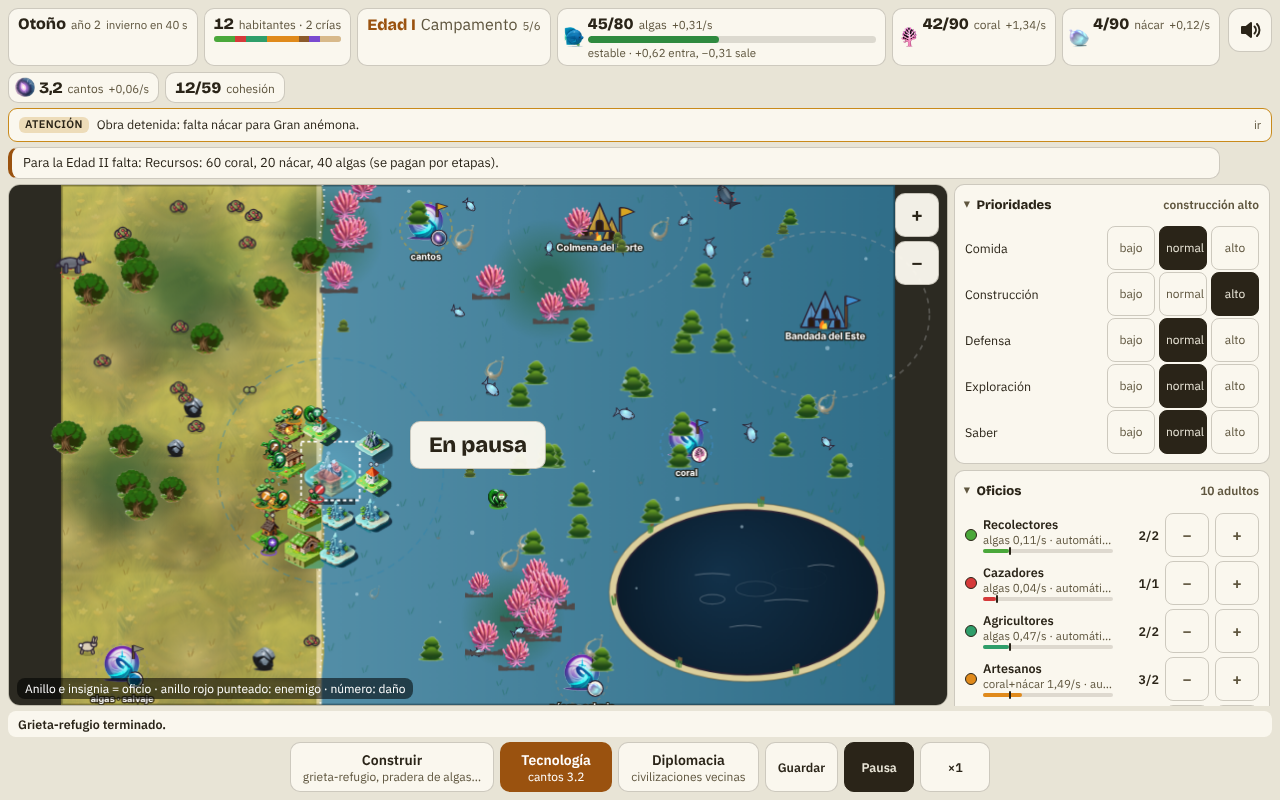
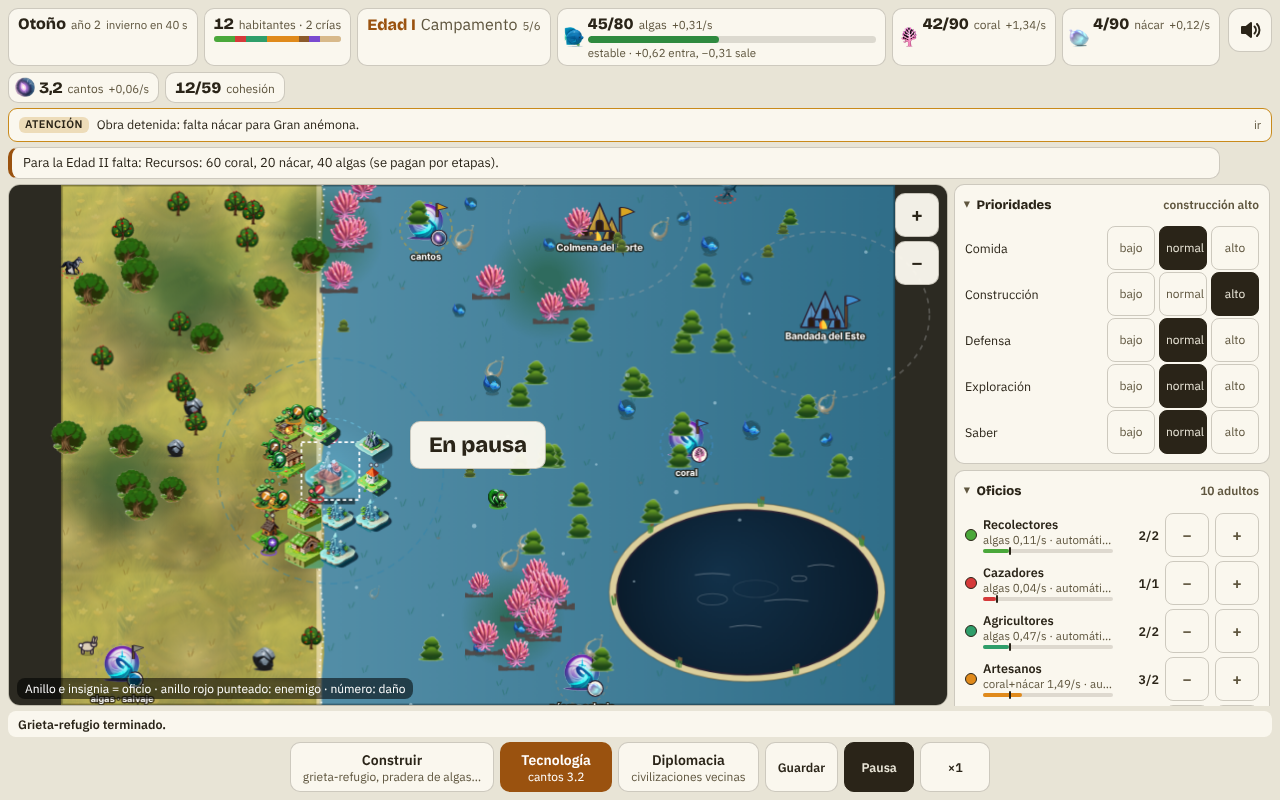
Era 3: fauna pintada (lobo, ciervo, tiburón, pez, escarabajo), suelo de insectos y arbusto terrestre; descartados conejo y barro; capturas
Claude-Session: https://claude.ai/code/session_01LxJEci8UkC2NiSyVL744eD

diff --git a/art/era3/manifest.js b/art/era3/manifest.js
@@ -1,3 +1,3 @@
 /* Generado por tools/anakin_dibujar_era3.py: dibujos de la Era 3 disponibles (motor de Anakin). */
-window.ERA3_ART = ["acu.almacen.1", "acu.almacen.2", "acu.almacen.3", "acu.corazon.1", "acu.corazon.2", "acu.corazon.3", "acu.cria.1", "acu.cria.2", "acu.cria.3", "acu.cuartel.1", "acu.cuartel.2", "acu.cuartel.3", "acu.ext1.1", "acu.ext1.2", "acu.ext1.3", "acu.ext2.1", "acu.ext2.2", "acu.ext2.3", "acu.granja.1", "acu.granja.2", "acu.granja.3", "acu.maravilla.1", "acu.muro.1", "acu.muro.2", "acu.muro.3", "acu.obra.andamio", "acu.obra.mitad", "acu.obra.plano", "acu.recurso.comida", "acu.recurso.mat1", "acu.recurso.mat2", "acu.recurso.saber", "acu.saber.1", "acu.saber.2", "acu.saber.3", "acu.terreno.arbusto", "acu.terreno.nodo", "acu.terreno.obstaculo", "acu.terreno.suelo", "acu.terreno.veta", "acu.torre.1", "acu.torre.2", "acu.torre.3", "acu.unico.1", "acu.vivienda.1", "acu.vivienda.2", "acu.vivienda.3", "ave.almacen.1", "ave.almacen.2", "ave.almacen.3", "ave.corazon.1", "ave.corazon.2", "ave.corazon.3", "ave.cria.1", "ave.cria.2", "ave.cria.3", "ave.cuartel.1", "ave.cuartel.2", "ave.cuartel.3", "ave.ext1.1", "ave.ext1.2", "ave.ext1.3", "ave.ext2.1", "ave.ext2.2", "ave.ext2.3", "ave.granja.1", "ave.granja.2", "ave.granja.3", "ave.maravilla.1", "ave.muro.1", "ave.muro.2", "ave.muro.3", "ave.obra.andamio", "ave.obra.mitad", "ave.obra.plano", "ave.recurso.comida", "ave.recurso.mat1", "ave.recurso.mat2", "ave.recurso.saber", "ave.saber.1", "ave.saber.2", "ave.saber.3", "ave.terreno.arbusto", "ave.terreno.nodo", "ave.terreno.obstaculo", "ave.terreno.suelo", "ave.torre.1", "ave.torre.2", "ave.torre.3", "ave.unico.1", "ave.vivienda.1", "ave.vivienda.2", "ave.vivienda.3", "gen.dano.escombros", "hab.acu_abisal", "hab.acu_anfibio", "hab.acu_arrecife", "hab.ave_carronera", "hab.ave_migratoria", "hab.ave_rapaz", "hab.ins_colmena", "hab.ins_enjambre", "hab.ins_parasito", "hab.lobo", "hab.ter_cazador", "hab.ter_gigante", "hab.ter_ingeniero", "ins.almacen.1", "ins.almacen.2", "ins.almacen.3", "ins.corazon.1", "ins.corazon.2", "ins.corazon.3", "ins.cria.1", "ins.cria.2", "ins.cria.3", "ins.cuartel.1", "ins.cuartel.2", "ins.cuartel.3", "ins.ext1.1", "ins.ext1.2", "ins.ext1.3", "ins.ext2.1", "ins.ext2.2", "ins.ext2.3", "ins.granja.1", "ins.granja.2", "ins.granja.3", "ins.maravilla.1", "ins.muro.1", "ins.muro.2", "ins.muro.3", "ins.obra.andamio", "ins.obra.mitad", "ins.obra.plano", "ins.recurso.comida", "ins.recurso.mat1", "ins.recurso.mat2", "ins.recurso.saber", "ins.saber.1", "ins.saber.2", "ins.saber.3", "ins.terreno.arbusto", "ins.terreno.nodo", "ins.terreno.obstaculo", "ins.terreno.veta", "ins.torre.1", "ins.torre.2", "ins.torre.3", "ins.unico.1", "ins.vivienda.1", "ins.vivienda.2", "ins.vivienda.3", "ter.almacen.1", "ter.almacen.2", "ter.almacen.3", "ter.corazon.1", "ter.corazon.2", "ter.corazon.3", "ter.cria.1", "ter.cria.2", "ter.cria.3", "ter.cuartel.1", "ter.cuartel.2", "ter.cuartel.3", "ter.ext1.1", "ter.ext1.2", "ter.ext1.3", "ter.ext2.1", "ter.ext2.2", "ter.ext2.3", "ter.granja.1", "ter.granja.2", "ter.granja.3", "ter.maravilla.1", "ter.muro.1", "ter.muro.2", "ter.muro.3", "ter.obra.andamio", "ter.obra.mitad", "ter.obra.plano", "ter.recurso.comida", "ter.recurso.mat1", "ter.recurso.mat2", "ter.recurso.saber", "ter.saber.1", "ter.saber.2", "ter.saber.3", "ter.terreno.nodo", "ter.terreno.obstaculo", "ter.terreno.suelo", "ter.terreno.veta", "ter.torre.1", "ter.torre.2", "ter.torre.3", "ter.unico.1", "ter.vivienda.1", "ter.vivienda.2", "ter.vivienda.3"];
-window.ERA3_FACE = {"acu_abisal": -1, "acu_anfibio": -1, "acu_arrecife": -1, "ave_carronera": 1, "ave_migratoria": 1, "ave_rapaz": 1, "ins_colmena": -1, "ins_enjambre": -1, "ins_parasito": -1, "ter_cazador": 1, "ter_gigante": 1, "ter_ingeniero": 1};
+window.ERA3_ART = ["acu.almacen.1", "acu.almacen.2", "acu.almacen.3", "acu.corazon.1", "acu.corazon.2", "acu.corazon.3", "acu.cria.1", "acu.cria.2", "acu.cria.3", "acu.cuartel.1", "acu.cuartel.2", "acu.cuartel.3", "acu.ext1.1", "acu.ext1.2", "acu.ext1.3", "acu.ext2.1", "acu.ext2.2", "acu.ext2.3", "acu.granja.1", "acu.granja.2", "acu.granja.3", "acu.maravilla.1", "acu.muro.1", "acu.muro.2", "acu.muro.3", "acu.obra.andamio", "acu.obra.mitad", "acu.obra.plano", "acu.recurso.comida", "acu.recurso.mat1", "acu.recurso.mat2", "acu.recurso.saber", "acu.saber.1", "acu.saber.2", "acu.saber.3", "acu.terreno.arbusto", "acu.terreno.nodo", "acu.terreno.obstaculo", "acu.terreno.suelo", "acu.terreno.veta", "acu.torre.1", "acu.torre.2", "acu.torre.3", "acu.unico.1", "acu.vivienda.1", "acu.vivienda.2", "acu.vivienda.3", "ave.almacen.1", "ave.almacen.2", "ave.almacen.3", "ave.corazon.1", "ave.corazon.2", "ave.corazon.3", "ave.cria.1", "ave.cria.2", "ave.cria.3", "ave.cuartel.1", "ave.cuartel.2", "ave.cuartel.3", "ave.ext1.1", "ave.ext1.2", "ave.ext1.3", "ave.ext2.1", "ave.ext2.2", "ave.ext2.3", "ave.granja.1", "ave.granja.2", "ave.granja.3", "ave.maravilla.1", "ave.muro.1", "ave.muro.2", "ave.muro.3", "ave.obra.andamio", "ave.obra.mitad", "ave.obra.plano", "ave.recurso.comida", "ave.recurso.mat1", "ave.recurso.mat2", "ave.recurso.saber", "ave.saber.1", "ave.saber.2", "ave.saber.3", "ave.terreno.arbusto", "ave.terreno.nodo", "ave.terreno.obstaculo", "ave.terreno.suelo", "ave.torre.1", "ave.torre.2", "ave.torre.3", "ave.unico.1", "ave.vivienda.1", "ave.vivienda.2", "ave.vivienda.3", "gen.dano.escombros", "hab.acu_abisal", "hab.acu_anfibio", "hab.acu_arrecife", "hab.ave_carronera", "hab.ave_migratoria", "hab.ave_rapaz", "hab.ciervo", "hab.escarabajo", "hab.ins_colmena", "hab.ins_enjambre", "hab.ins_parasito", "hab.lobo", "hab.lucio", "hab.pez", "hab.ter_cazador", "hab.ter_gigante", "hab.ter_ingeniero", "ins.almacen.1", "ins.almacen.2", "ins.almacen.3", "ins.corazon.1", "ins.corazon.2", "ins.corazon.3", "ins.cria.1", "ins.cria.2", "ins.cria.3", "ins.cuartel.1", "ins.cuartel.2", "ins.cuartel.3", "ins.ext1.1", "ins.ext1.2", "ins.ext1.3", "ins.ext2.1", "ins.ext2.2", "ins.ext2.3", "ins.granja.1", "ins.granja.2", "ins.granja.3", "ins.maravilla.1", "ins.muro.1", "ins.muro.2", "ins.muro.3", "ins.obra.andamio", "ins.obra.mitad", "ins.obra.plano", "ins.recurso.comida", "ins.recurso.mat1", "ins.recurso.mat2", "ins.recurso.saber", "ins.saber.1", "ins.saber.2", "ins.saber.3", "ins.terreno.arbusto", "ins.terreno.nodo", "ins.terreno.obstaculo", "ins.terreno.suelo", "ins.terreno.veta", "ins.torre.1", "ins.torre.2", "ins.torre.3", "ins.unico.1", "ins.vivienda.1", "ins.vivienda.2", "ins.vivienda.3", "ter.almacen.1", "ter.almacen.2", "ter.almacen.3", "ter.corazon.1", "ter.corazon.2", "ter.corazon.3", "ter.cria.1", "ter.cria.2", "ter.cria.3", "ter.cuartel.1", "ter.cuartel.2", "ter.cuartel.3", "ter.ext1.1", "ter.ext1.2", "ter.ext1.3", "ter.ext2.1", "ter.ext2.2", "ter.ext2.3", "ter.granja.1", "ter.granja.2", "ter.granja.3", "ter.maravilla.1", "ter.muro.1", "ter.muro.2", "ter.muro.3", "ter.obra.andamio", "ter.obra.mitad", "ter.obra.plano", "ter.recurso.comida", "ter.recurso.mat1", "ter.recurso.mat2", "ter.recurso.saber", "ter.saber.1", "ter.saber.2", "ter.saber.3", "ter.terreno.arbusto", "ter.terreno.nodo", "ter.terreno.obstaculo", "ter.terreno.suelo", "ter.terreno.veta", "ter.torre.1", "ter.torre.2", "ter.torre.3", "ter.unico.1", "ter.vivienda.1", "ter.vivienda.2", "ter.vivienda.3"];
+window.ERA3_FACE = {"acu_abisal": -1, "acu_anfibio": -1, "acu_arrecife": -1, "ave_carronera": 1, "ave_migratoria": 1, "ave_rapaz": 1, "ins_colmena": -1, "ins_enjambre": -1, "ins_parasito": -1, "ter_cazador": 1, "ter_gigante": 1, "ter_ingeniero": 1, "lobo": 1, "ciervo": 1, "lucio": 1, "pez": 1, "escarabajo": 1};
